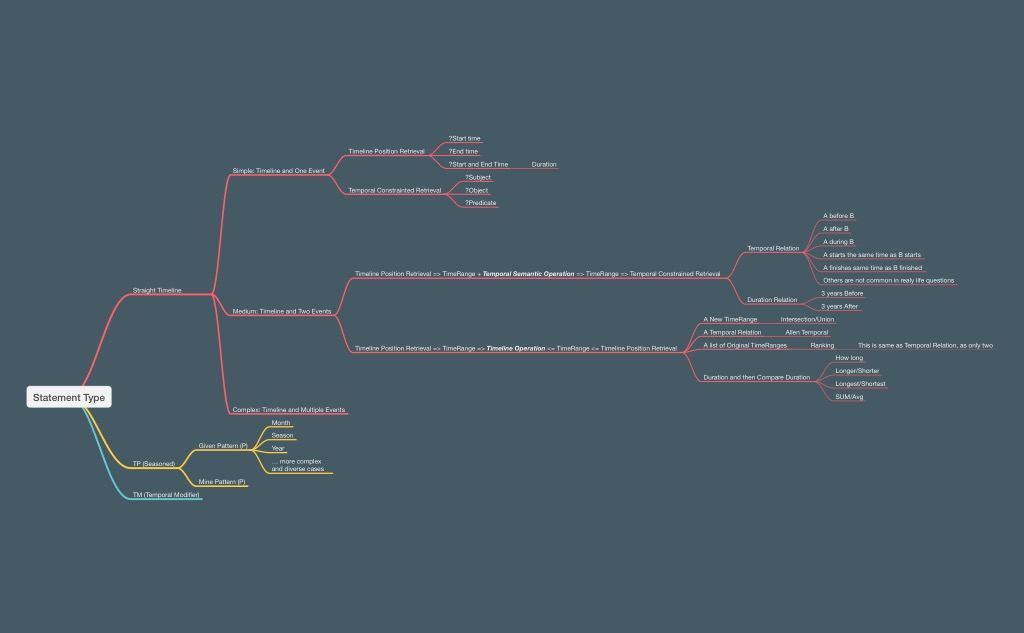
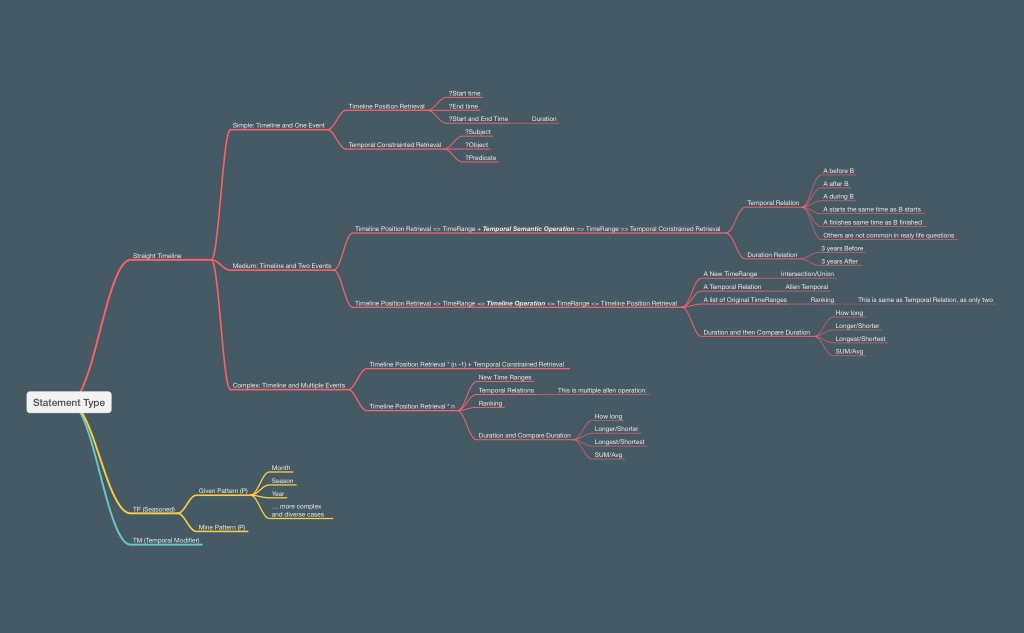
update readme

Changed region(s): [[0.0312, 0.1201, 0.9688, 0.8705], [0.3438, 0.3602, 0.7188, 0.3902]]

diff --git a/tkgqa_generator/README.md b/tkgqa_generator/README.md
@@ -25,7 +25,131 @@ So we propose to represent the temporal information as the attribute of a SPO tr
 graph.
 This is similar to the event knowledge graph representation in the literature.
 
-### Workflow
+## Question Classification
+
+**How human handle the temporal information and answer the temporal questions?**
+
+### Information Indexing
+
+When we see something, for example, an accident happen near our home in today morning.
+We need to first index this event into our brain.
+As we live in a three dimension space together with a time dimension,
+when we want to store this in our memory, (we will treat our memory as a N dimension space)
+
+1. Index the spatial dimensions: is this close to my home or close to one of the point of interest in my mind
+2. Index the temporal dimension: Temporal have several aspects
+    - Treat temporal as **Straight Homogenous(Objective)** Timeline:
+        - Exact date when it happen, for example, [2023-05-01 10:00:00, 2023-05-01 10:30:00]
+    - Treat temporal as **Cycle Homogenous(Objective)** Timeline:
+        - Monday, First day of Month, Spring, 21st Century, etc.
+        - (You can aslo cycle the timeline based on your own requirement)
+    - Treat temporal as **Straight Hoterogenous(Subjective)** Timeline:
+        - If you sleep during night, it will be fast for you in the 8 hours, however, if someone is working overnight,
+          time will be slow for him.
+    - Treat temporal as **Cycle Hoterogenous(Subjective)** Timeline:
+        - Life has different turning points for everyone, until they reach the end of their life.
+3. Then index the information part: What happen, who is involved, what is the impact, etc.
+
+So in summary, we can say that in our mind, if we treat the event as embedding in our human mind:
+
+- part of the embedding will represent the temporal dimension information,
+- part of the embedding will represent the spatial dimension information,
+- the rest of the embedding will represent the general information part.
+
+This will help us to retrieve the information when we need it.
+
+### Information Retrieval
+
+So when we try to retrieval the information, espeically the temporal part of the information.
+Normally we have several types:
+
+- **Timeline Position Retrieval**:
+    - When Bush starts his term as president of US?
+        - First: **General Information Retrieval**  => [(Bush, start, president of US), (Bush, term, president of US)]
+        - Second: **Timeline Position Retrieval
+          ** => [(Bush, start, president of US, 2000, 2000), (Bush, term, president of US, 2000, 2008)]
+        - Third: Answer the question based on the timeline information
+- **Temporal Constrainted Retrieval**:
+    - In 2009, who is the president of US?
+        - First: **General Information Retrieval
+          **  => [(Bush, president of US), (Obama, president of US), (Trump, president of US)]
+        - Second: **Temporal Constraint Retrieval** => [(Obama, president of US, 2009, 2016)]
+        - Third: Answer the question based on the temporal constraint information
+
+Three key things here:
+
+- **General Information Retrieval**: Retrieve the general information from the knowledge graph based on the question
+- **Temporal Constrainted Retrieval**: Filter on general information retrieval, apply the temporal constraint
+- **Timeline Position Retrieval**: Based on general information retrieval, recover the timeline information
+
+### Temporal Questions
+
+We can try to classify the temporal questions from quite a few perspectives:
+
+- Based on Answer: Entity, Temporal
+- Based on Temporal Relations in Question: Before, After, During , etc or First, Last, etc.
+- Based on Temporal Representation Type: Point, Range, Duration, etc.
+- Based on Complexity of Question: Simple (direct retrieval), Complex (Multiple hops with the three key things we
+  mention above)
+
+There is still no agreement or clear classification here, most of them stays in the first two.
+However, it is obvious that they have overlaps, so will not be the best way to advance the temporal embedding
+algorithms development.
+
+We are trying to decompose the question into the three key parts we mentioned above, so we can evaluate the ability of
+the models for this three key capabilities.
+
+#### Simple: Timeline and One Event Involved
+
+- Timeline Position Retrieval:
+    - When Bush starts his term as president of US?
+        - General Information Retrieval => Timeline Recovery => Answer the question
+        - Question Focus can be: *Timestamp Start, Timestamp End, Duration, Timestamp Start and End*
+- Temporal Constrainted Retrieval:
+    - In 2009, who is the president of US?
+        - General Information Retrieval => Temporal Constraint Retrieval => Answer the question
+        - Question Focus can be: *Subject, Object, Predicate*. Can be more complex if we want mask out more elements
+
+#### Medium: Timeline and Two Events Involved
+
+- Timeline Position Retrieval + Timeline Position Retrieval:
+    - Is Bush president of US when 911 happen?
+        - *(General Information Retrieval => Timeline Recovery)* And *(General Information Retrieval => Timeline
+          Recovery)* => *Timeline Operation* => Answer the question
+        - Question Focus can be:
+            - A new Time Range
+            - A temporal relation (Before, After, During, etc.)
+            - A list of Time Range (Ranking)
+            - or Comparison of Duration
+        - Key ability here is: **Timeline Operation**
+- Timeline Position Retrieval + Temporal Constrainted Retrieval:
+    - When Bush is president of US, who is the president of China?
+        - *(General Information Retrieval => Timeline Position Retrieval)* => *Temporal Semantic Operation* => *Temporal
+          Constraint Retrieval* => Answer the question
+        - This is same as above, Question Focus can be: *Subject, Object*
+        - Key ability here is: **Temporal Semantic Operation**
+
+#### Complex: Timeline and Multiple Events Involved
+
+In general, question focus (answer type) will only be two types when we extend from Medium Level
+
+- Timeline Operation
+- (Subject, Predicate, Object)
+
+So if we say Complex is 3 or n events and Timeline.
+
+- Timeline Position Retrieval * n
+- Timeline Position Retrieval * (n -1) => Semantic Operation * (n - 1)? => Temporal Constrainted Retrieval
+
+#### Key ability required
+
+- **General Information Retrieval**: Retrieve the general information from the knowledge graph based on the question
+- **Temporal Constrainted Retrieval**: Filter on general information retrieval, apply the temporal constraint
+- **Timeline Position Retrieval**: Based on general information retrieval, recover the timeline information
+- **Timeline Operation**: From numeric to semantic
+- **Temporal Semantic Operation**: From Semantic to Numeric
+
+## Workflow
 
 The workflow of the temporal logic question answering pairs over knowledge graph is as follows:
 
@@ -86,120 +210,3 @@ tkgqa_generator/
 ├── README.md
 └── LICENSE
 ```
-
-# How human handle the temporal information and answer the temporal questions?
-
-## Information Indexing
-
-When we see something, for example, an accident happen near our home in today morning.
-We need to first index this event into our brain.
-As we live in a three dimension space together with a time dimension,
-when we want to store this in our memory, (we will treat our memory as a N dimension space)
-
-- Index the spatial dimensions: is this close to my home or close to one of the point of interest in my mind
-- Index the temporal dimension: Temporal have several aspects
-    - Treat temporal as **Straight Homogenous(Objective)** Timeline: Exact date when it happen, for
-      example, [2023-05-01 10:00:00, 2023-05-01 10:30:00]
-    - Treat temporal as **Cycle Homogenous(Objective)** Timeline: Monday, First day of Month, Spring, 21st Century,
-      etc. (You
-      can aslo cycle the timeline based on your own requirement)
-    - Treat temporal as **Straight Hoterogenous(Subjective)** Timeline: If you sleep during night, it will be fast for
-      you in
-      the 8 hours, however, if someone is working overnight, time will be slow for him.
-    - Treat temporal as **Cycle Hoterogenous(Subjective)** Timeline: Life has different turning points for everyone,
-      until they
-      reach the end of their life.
-- Then index the information part: What happen, who is involved, what is the impact, etc.
-
-So in summary, we can say that in our mind, if we treat the event as embedding in our human mind:
-
-- part of the embedding will represent the temporal dimension information,
-- part of the embedding will represent the spatial dimension information,
-- the rest of the embedding will represent the general information part.
-
-This will help us to retrieve the information when we need it.
-
-## Information Retrieval
-
-So when we try to retrieval the information, espeically the temporal part of the information.
-Normally we have several types:
-
-- Timeline Recovery: When Bush starts his term as president of US?
-    - First: **General Information Retrieval** [(Bush, start, president of US), (Bush, term, president of US)]
-    - Second: **Timeline Recovery Retrieval
-      ** [(Bush, start, president of US, 2000, 2000), (Bush, term, president of US, 2000, 2008)]
-    - Third: Answer the question based on the timeline information
-- Temporal Constrainted Retrieval: In 2009, who is the president of US?
-    - First: **General Information Retrieval
-      ** [(Bush, president of US), (Obama, president of US), (Trump, president of US)]
-    - Second: **Temporal Constraint Retrieval** [(Obama, president of US, 2009, 2016)]
-    - Third: Answer the question based on the temporal constraint information
-
-Three key things here:
-
-- **General Information Retrieval**: Retrieve the general information from the knowledge graph based on the question
-- **Temporal Constrainted Retrieval**: Filter on general information retrieval, apply the temporal constraint
-- **Timeline Recovery Retrieval**: Based on general information retrieval, recover the timeline information
-
-## Temporal Questions
-
-We can try to classify the temporal questions from quite a few perspectives:
-
-- Based on Answer: Entity, Temporal
-- Based on Temporal Relations in Question: Before, After, During , etc or First, Last, etc.
-- Based on Temporal Representation Type: Point, Range, Duration, etc.
-- Based on Complexity of Question: Simple (direct retrieval), Complex (Multiple hops with the three key things we
-  mention above)
-
-There is still no agreement or clear classification here, most of them stays in the first two.
-However, it is obvious that they have overlaps, so will not be the best way to advance the temporal embedding
-algorithms development.
-
-We are trying to decompose the question into the three key parts we mentioned above, so we can evaluate the ability of
-the models for this three key capabilities.
-
-### Simple: Timeline and One Event Involved
-
-- Timeline Recovery: When Bush starts his term as president of US?
-    - General Information Retrieval => Timeline Recovery => Answer the question
-    - Question Focus can be: Timestamp Start, Timestamp End, Duration, Timestamp Start and End
-- Temporal Constrainted Retrieval: In 2009, who is the president of US?
-    - General Information Retrieval => Temporal Constraint Retrieval => Answer the question
-    - Question Focus can be: Subject, Object, Predicate. Can be more complex if we want mask out more elements
-
-### Medium: Timeline and Two Events Involved
-
-- Timeline Recovery + Timeline Recovery: Is Bush president of US when 911 happen?
-    - (General Information Retrieval => Timeline Recovery) And (General Information Retrieval => Timeline
-      Recovery) => Timeline Operation => Answer the question
-    - Question Focus can be: A new Time Range, A temporal relation (Before, After, During, etc.), A list of Time
-      Range (Ranking), or Comparison of Duration
-- Timeline Recovery + Temporal Constrainted Retrieval: When Bush is president of US, who is the president of China?
-    - (General Information Retrieval => Timeline Recovery) => Temporal Constraint Retrieval => Answer the question
-    - This is same as above, Question Focus can be: Subject, Object
-
-### Complex: Timeline and Multiple Events Involved
-
-In general, question focus (answer type) will only be two types when we extend from Medium Level
-
-- Timeline Operation
-- (Subject, Predicate, Object)
-
-So if we say Complex is 3 events and Timeline.
-
-- Timeline Recovery + Timeline Recovery + Timeline Recovery: When Bush is president of US and Putin is President of
-  Russion, is Hu the president of China?
-    - (General Information Retrieval => Timeline Recovery) And (General Information Retrieval => Timeline Recovery)
-      And (General Information Retrieval => Timeline Recovery) => Timeline Operation => Answer the question
-- Timeline Recovery + Timeline Recovery + Temporal Constrainted Retrieval: When Bush is president of US and Putin is
-  President of Russion, who is the president of China?
-    - (General Information Retrieval => Timeline Recovery) And (General Information Retrieval => Timeline Recovery)
-      And (General Information Retrieval => Temporal Constraint Retrieval) => Timeline Operation => Answer the question
-
-## key ability required
-
-- **General Information Retrieval**: Retrieve the general information from the knowledge graph based on the question
-- **Temporal Constrainted Retrieval**: Filter on general information retrieval, apply the temporal constraint
-- **Timeline Position Retrieval**: Based on general information retrieval, recover the timeline information
-- **Timeline Operation**: From numeric to semantic
-- **Temporal Semantic Operation**: From Semantic to Numeric
